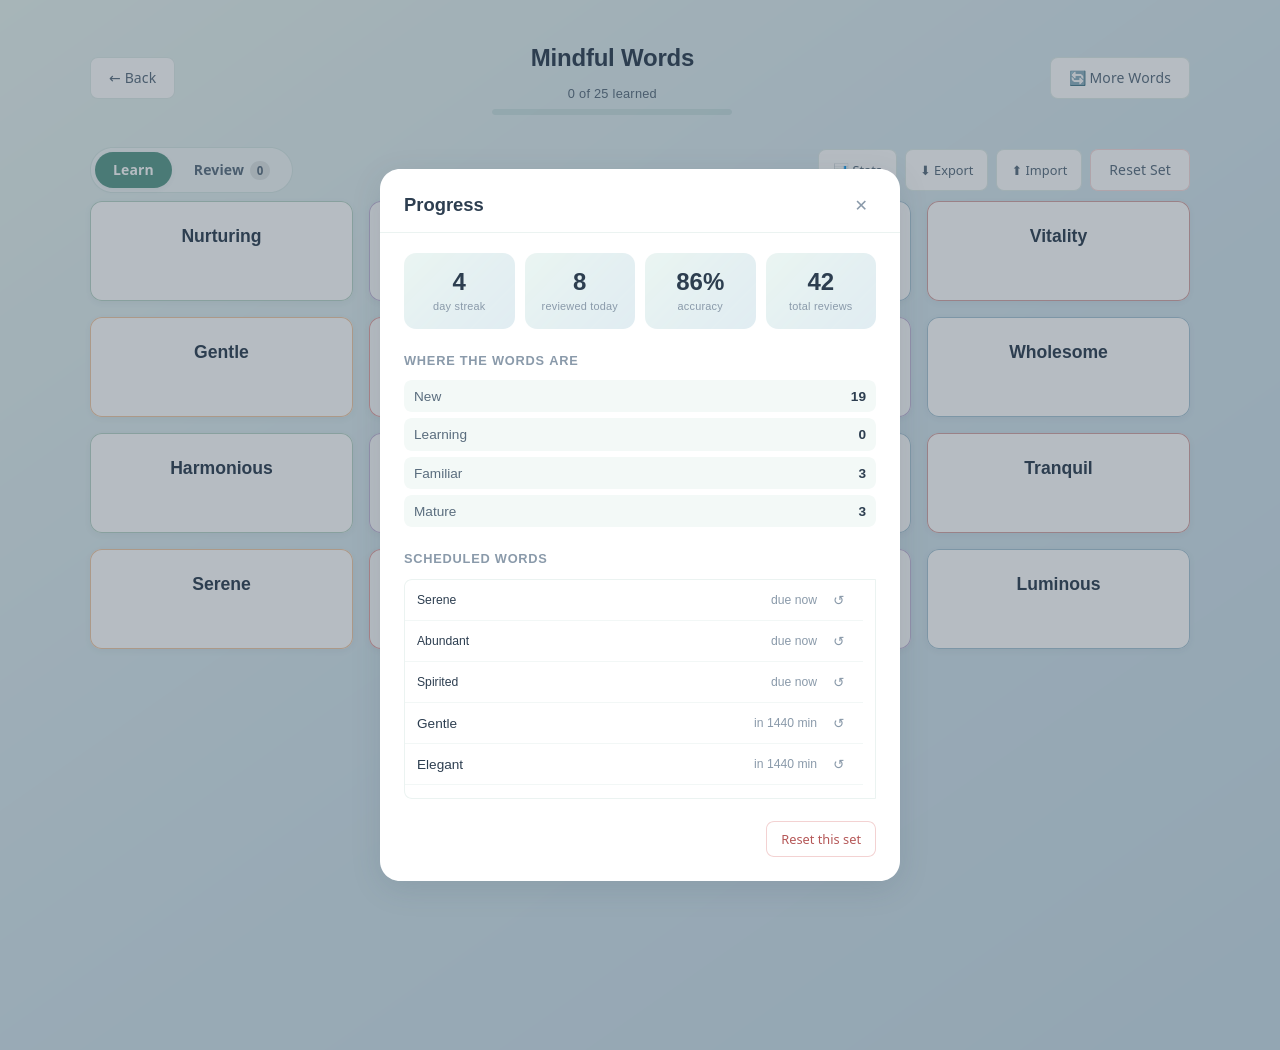
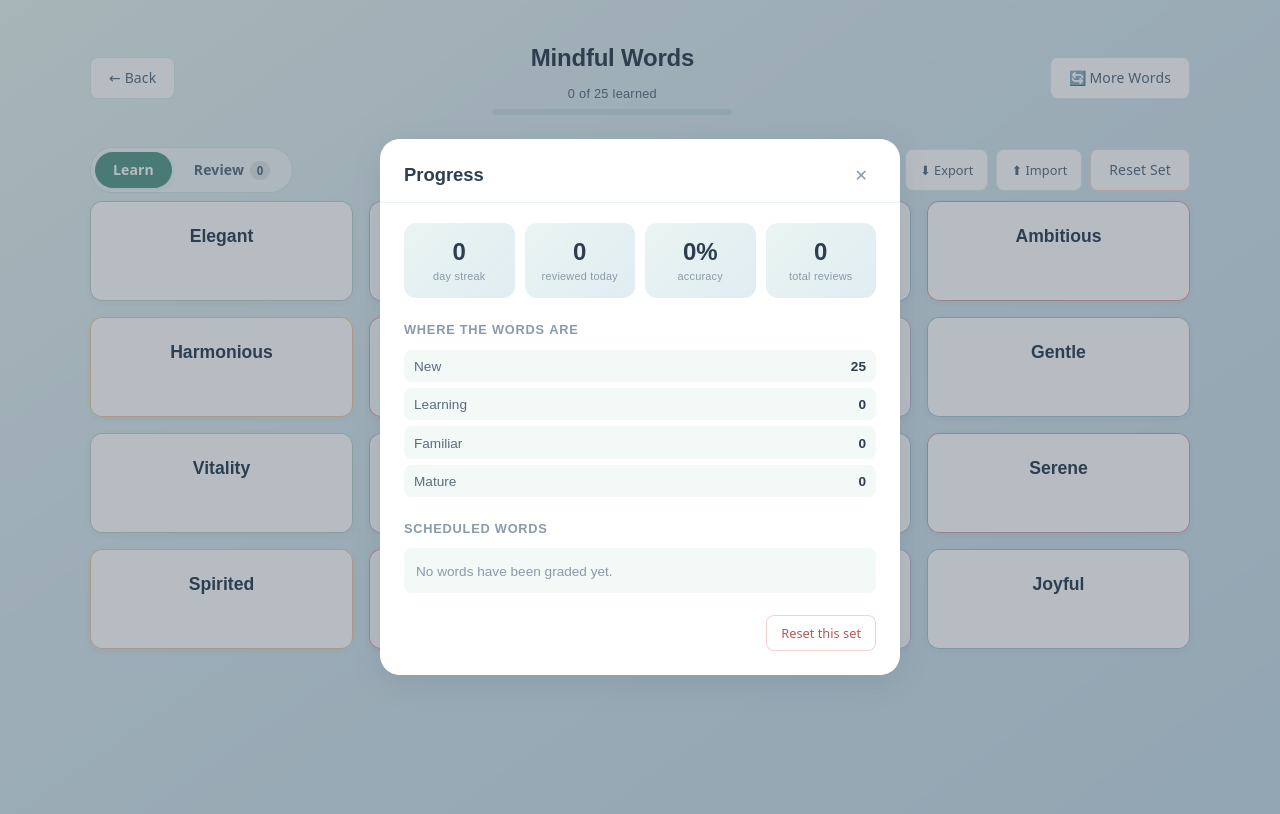
Rename the project to VoidRecll
Renames the app from "Mindful Words" to "VoidRecll" everywhere the user
sees it, and moves the internal identifiers to match.

Display name: the page title, meta description, apple-mobile-web-app-title,
Open Graph and Twitter tags, the home page heading, the web app manifest,
the favicon's accessible label, the start script's banner, the README and
the review.

Internal identifiers:
- localStorage keys: mindful_srs_* / mindful_learned_* / mindful_stats
  become voidrecll_*. Progress saved in this browser under the old names is
  not carried over. The legacy learned_* key from the original app is left
  alone, so the existing migration still works.
- the service worker cache version becomes voidrecll-v1, which also evicts
  the old mindful-words-v1 caches on activate.
- the export file name and its "app" field become voidrecll.
- the npm package name becomes voidrecll.

The "Mindful Words" word set keeps its name - it is one of the three sets
the app ships, themed around calming vocabulary, and is unrelated to the
app's own name.

The og-image wordmark now scales to fill the space it is given, so the
name does not sit marooned in an empty area after a rename.

npm test: 150 checks, 150 passed, 0 failures.

diff --git a/index.html b/index.html
@@ -4,10 +4,10 @@
         <meta charset="UTF-8" />
         <meta name="viewport" content="width=device-width, initial-scale=1.0" />
 
-        <title>Mindful Words - Flashcards with Spaced Repetition</title>
+        <title>VoidRecll - Flashcards with Spaced Repetition</title>
         <meta
             name="description"
-            content="Learn word sets with spaced repetition. Grade each card Again, Hard, Good or Easy and Mindful Words schedules it for you."
+            content="Learn word sets with spaced repetition. Grade each card Again, Hard, Good or Easy and VoidRecll schedules it for you."
         />
 
         <!-- Icons -->
@@ -21,13 +21,13 @@
         <meta name="color-scheme" content="light dark" />
         <meta name="mobile-web-app-capable" content="yes" />
         <meta name="apple-mobile-web-app-capable" content="yes" />
-        <meta name="apple-mobile-web-app-title" content="Mindful Words" />
+        <meta name="apple-mobile-web-app-title" content="VoidRecll" />
         <meta name="apple-mobile-web-app-status-bar-style" content="default" />
 
         <!-- Social sharing -->
         <meta property="og:type" content="website" />
-        <meta property="og:site_name" content="Mindful Words" />
-        <meta property="og:title" content="Mindful Words - Flashcards with Spaced Repetition" />
+        <meta property="og:site_name" content="VoidRecll" />
+        <meta property="og:title" content="VoidRecll - Flashcards with Spaced Repetition" />
         <meta
             property="og:description"
             content="Learn word sets with spaced repetition. Grade each card Again, Hard, Good or Easy and the app schedules it for you."
@@ -36,7 +36,7 @@
         <meta property="og:image:width" content="1200" />
         <meta property="og:image:height" content="630" />
         <meta name="twitter:card" content="summary_large_image" />
-        <meta name="twitter:title" content="Mindful Words - Flashcards with Spaced Repetition" />
+        <meta name="twitter:title" content="VoidRecll - Flashcards with Spaced Repetition" />
         <meta
             name="twitter:description"
             content="Learn word sets with spaced repetition. Grade each card Again, Hard, Good or Easy and the app schedules it for you."
@@ -50,7 +50,7 @@
         <div id="app">
             <!-- Home Page View -->
             <div id="homeView" class="home-view" style="display: none;">
-                <h1>Mindful Words</h1>
+                <h1>VoidRecll</h1>
                 <p class="subtitle">Choose a word set to begin</p>
                 <div id="wordSetGrid" class="word-set-grid"></div>
             </div>

diff --git a/js/app.js b/js/app.js
@@ -103,10 +103,10 @@
     }
   }
 
-  const srsKey = (setFile) => `mindful_srs_${setFile}`;
-  const learnedKey = (setFile) => `mindful_learned_${setFile}`;
+  const srsKey = (setFile) => `voidrecll_srs_${setFile}`;
+  const learnedKey = (setFile) => `voidrecll_learned_${setFile}`;
   const legacyLearnedKey = (setFile) => `learned_${setFile}`;
-  const STATS_KEY = "mindful_stats";
+  const STATS_KEY = "voidrecll_stats";
 
   // ===========================================================================
   // Learned words (kept for backwards compatibility with older progress data)
@@ -419,7 +419,7 @@
   // Init
   // ===========================================================================
   function init() {
-    console.log("🎨 Mindful Words initializing...");
+    console.log("🎨 VoidRecll initializing...");
 
     homeView = document.getElementById("homeView");
     gameView = document.getElementById("gameView");
@@ -1255,8 +1255,8 @@
     try {
       for (let i = 0; i < localStorage.length; i++) {
         const key = localStorage.key(i);
-        if (key && key.startsWith("mindful_srs_")) known.add(key.slice("mindful_srs_".length));
-        if (key && key.startsWith("mindful_learned_")) known.add(key.slice("mindful_learned_".length));
+        if (key && key.startsWith("voidrecll_srs_")) known.add(key.slice("voidrecll_srs_".length));
+        if (key && key.startsWith("voidrecll_learned_")) known.add(key.slice("voidrecll_learned_".length));
       }
     } catch {
       // storage may be unavailable; the manifest entries still cover the rest
@@ -1270,7 +1270,7 @@
     });
 
     return {
-      app: "mindful-words",
+      app: "voidrecll",
       version: 1,
       exportedAt: new Date().toISOString(),
       sets,
@@ -1281,7 +1281,7 @@
   function exportProgress() {
     const payload = buildExportPayload();
     const json = JSON.stringify(payload, null, 2);
-    const filename = `mindful-words-progress-${new Date().toISOString().slice(0, 10)}.json`;
+    const filename = `voidrecll-progress-${new Date().toISOString().slice(0, 10)}.json`;
 
     try {
       const blob = new Blob([json], { type: "application/json" });
@@ -1354,7 +1354,7 @@
 
   function applyImport(data) {
     if (!data || typeof data !== "object" || !data.sets || typeof data.sets !== "object") {
-      showToast("❌ That file is not a Mindful Words backup", null, null);
+      showToast("❌ That file is not a VoidRecll backup", null, null);
       return;
     }
 

diff --git a/tests/helpers.js b/tests/helpers.js
@@ -1,5 +1,5 @@
 /**
- * Shared helpers for the Mindful Words check suites.
+ * Shared helpers for the VoidRecll check suites.
  *
  * The suites boot the real app (the real js/app.js) inside a DOM harness and
  * point its fetch at a live local server, so the checks exercise the app
@@ -115,12 +115,12 @@ const cardWords = (doc) =>
   Array.from(doc.querySelectorAll(".card .word-text")).map((e) => e.textContent);
 
 const srsOf = (w, file = "words.json") =>
-  JSON.parse(w.localStorage.getItem(`mindful_srs_${file}`) || "{}");
+  JSON.parse(w.localStorage.getItem(`voidrecll_srs_${file}`) || "{}");
 
 const learnedOf = (w, file = "words.json") =>
-  JSON.parse(w.localStorage.getItem(`mindful_learned_${file}`) || "[]");
+  JSON.parse(w.localStorage.getItem(`voidrecll_learned_${file}`) || "[]");
 
-const statsOf = (w) => JSON.parse(w.localStorage.getItem("mindful_stats") || "{}");
+const statsOf = (w) => JSON.parse(w.localStorage.getItem("voidrecll_stats") || "{}");
 
 const errText = (w) => w.__errors.map((e) => (e && e.stack) || String(e)).join("\n");
 
@@ -164,7 +164,7 @@ async function ensureInReview(w, doc, word) {
   }
   srs[word].due = Date.now() - 1000;
   srs[word].lapsed = false;
-  w.localStorage.setItem("mindful_srs_words.json", JSON.stringify(srs));
+  w.localStorage.setItem("voidrecll_srs_words.json", JSON.stringify(srs));
 
   const isReview = doc.getElementById("reviewModeBtn").classList.contains("mode-btn-active");
   if (!isReview) {

diff --git a/tests/p1-features.test.js b/tests/p1-features.test.js
@@ -122,7 +122,7 @@ const suite = (async () => {
   wordsToDue.forEach((w) => {
     srs[w] = { ef: 2.5, interval: 1, reps: 1, lapses: 0, due: Date.now() - 1000, last: Date.now() - DAY_MS, lapsed: false };
   });
-  gM.localStorage.setItem("mindful_srs_words.json", JSON.stringify(srs));
+  gM.localStorage.setItem("voidrecll_srs_words.json", JSON.stringify(srs));
 
   gMdoc.getElementById("reviewModeBtn").click();
   await wait(1200);
@@ -221,7 +221,7 @@ const suite = (async () => {
     const x = new Date(Date.now() - off * DAY_MS);
     return `${x.getFullYear()}-${String(x.getMonth() + 1).padStart(2, "0")}-${String(x.getDate()).padStart(2, "0")}`;
   };
-  gSt.localStorage.setItem("mindful_stats", JSON.stringify({
+  gSt.localStorage.setItem("voidrecll_stats", JSON.stringify({
     version: 1,
     sets: { "words.json": { reviews: 9, correct: 8, history: {
       [d(0)]: { reviews: 3, correct: 3 },
@@ -354,7 +354,7 @@ const suite = (async () => {
 
   const gMig = await boot("http://localhost:8477/index.html?set=words.json");
   gMig.localStorage.setItem("learned_words.json", JSON.stringify(["Serene", "Gentle"]));
-  gMig.localStorage.removeItem("mindful_srs_words.json");
+  gMig.localStorage.removeItem("voidrecll_srs_words.json");
   gMig.document.getElementById("refreshBtn").click();
   await wait(900);
   bug("regression: old progress is migrated into the new schedule",

diff --git a/sw.js b/sw.js
@@ -1,12 +1,12 @@
 /*
- * Mindful Words - service worker
+ * VoidRecll - service worker
  *
  * Makes the app work offline. The app shell is precached on install; every
  * other same-origin request is served stale-while-revalidate, so a cached copy
  * is returned immediately while a fresh one is fetched in the background.
  */
 
-const VERSION = "mindful-words-v1";
+const VERSION = "voidrecll-v1";
 const SHELL_CACHE = `${VERSION}-shell`;
 const RUNTIME_CACHE = `${VERSION}-runtime`;
 

diff --git a/tests/run-all.js b/tests/run-all.js
@@ -1,6 +1,6 @@
 #!/usr/bin/env node
 /**
- * Runs every Mindful Words check suite and prints a combined summary.
+ * Runs every VoidRecll check suite and prints a combined summary.
  *
  *   node tests/run-all.js
  *

diff --git a/tools/screenshot.py b/tools/screenshot.py
@@ -111,7 +111,13 @@ def wait_for_port(port, process, timeout=45):
     raise RuntimeError(f"Marionette did not open port {port} in time")
 
 
-def capture(url, out_path, delay, width, height, profile):
+def capture(url, out_path, delay, width, height, profile, dark=False, click=None):
+    if dark:
+        # Firefox reports the system theme through this pref. The app follows
+        # prefers-color-scheme, so this is what puts it into dark mode.
+        with open(os.path.join(profile, "user.js"), "w", encoding="utf8") as handle:
+            handle.write('user_pref("ui.systemUsesDarkTheme", 1);\n')
+
     process = subprocess.Popen(
         [
             FIREFOX,
@@ -141,6 +147,15 @@ def capture(url, out_path, delay, width, height, profile):
         )
         session.navigate(url)
         time.sleep(delay)
+
+        if click:
+            # open whatever the shot should show (a modal, a flipped card)
+            session.run_script(
+                "var el = document.querySelector(arguments[0]);"
+                "if (el) el.click();",
+                [click],
+            )
+            time.sleep(1.0)
 
         # Report what is actually on the page, so a capture of an empty view
         # cannot be mistaken for a working one.
@@ -175,6 +190,14 @@ def main():
     )
     parser.add_argument("--width", type=int, default=1280)
     parser.add_argument("--height", type=int, default=900)
+    parser.add_argument(
+        "--dark", action="store_true", help="render with the dark colour scheme"
+    )
+    parser.add_argument(
+        "--click",
+        default=None,
+        help="CSS selector to click before capturing (e.g. '#statsBtn')",
+    )
     args = parser.parse_args()
 
     if not FIREFOX:
@@ -184,7 +207,14 @@ def main():
     profile = tempfile.mkdtemp(prefix="mw-shot-")
     try:
         summary = capture(
-            args.url, args.out, args.delay, args.width, args.height, profile
+            args.url,
+            args.out,
+            args.delay,
+            args.width,
+            args.height,
+            profile,
+            dark=args.dark,
+            click=args.click,
         )
     except Exception as err:  # noqa: BLE001 - report and fail cleanly
         print(f"screenshot failed: {err}", file=sys.stderr)

diff --git a/tools/make-icons.py b/tools/make-icons.py
@@ -1,5 +1,5 @@
 #!/usr/bin/env python3
-"""Generates the Mindful Words app icons and social preview image.
+"""Generates the VoidRecll app icons and social preview image.
 
 Run from the project root:  python3 tools/make-icons.py
 The SVG favicon is hand-written (favicon.svg); this script renders the
@@ -57,6 +57,23 @@ def draw_mark(img):
     d.rounded_rectangle([sc(168), sc(330), sc(344), sc(386)], radius=sc(28), fill=TEAL)
 
 
+def fit_font(text, size, min_size, max_width):
+    """Picks the largest size (down to min_size) that fits within max_width.
+
+    The wordmark should fill the same space whatever the app is called, so a
+    rename does not leave a short name marooned in a wide empty area.
+    """
+    try:
+        while size > min_size:
+            font = ImageFont.truetype(FONT_BOLD, size)
+            if font.getbbox(text)[2] - font.getbbox(text)[0] <= max_width:
+                return font
+            size -= 2
+        return ImageFont.truetype(FONT_BOLD, min_size)
+    except OSError:
+        return ImageFont.load_default()
+
+
 def make_icon(size, name, maskable=False):
     img = gradient((size, size), MINT, SKY)
     if maskable:
@@ -86,14 +103,10 @@ def make_og():
     d.rounded_rectangle([956, 300, 1094, 342], radius=21, fill=TEAL)
 
     # wordmark
-    try:
-        title = ImageFont.truetype(FONT_BOLD, 74)
-        sub = ImageFont.truetype(FONT_BOLD, 30)
-    except OSError:
-        title = ImageFont.load_default()
-        sub = ImageFont.load_default()
+    title = fit_font("VoidRecll", 74, 90, 560)
+    sub = fit_font("Flashcards with spaced repetition", 30, 30, 560)
 
-    d.text((90, 190), "Mindful Words", font=title, fill=INK)
+    d.text((90, 190), "VoidRecll", font=title, fill=INK)
     d.text((90, 288), "Flashcards with spaced repetition", font=sub, fill=(90, 109, 126))
     d.text((90, 400), "Learn · Review · Remember", font=sub, fill=TEAL)
 

diff --git a/REVIEW.md b/REVIEW.md
@@ -1,4 +1,4 @@
-# Mindful Words — Project Review
+# VoidRecll — Project Review
 
 **Date:** 2026-11-07
 **Scope:** Full source review of `index.html`, `css/style.css`, `js/app.js`, `data/*`, `README.md`, `start.sh`, plus runtime verification in a DOM harness and headless-Firefox screenshots.

diff --git a/README.md b/README.md
@@ -1,4 +1,4 @@
-# Mindful Words - Dynamic Word Cards
+# VoidRecll - Dynamic Word Cards
 
 A flashcard app with spaced repetition. It learns 16 words at a time from any word
 set, then schedules each word so it comes back just before you would forget it.
